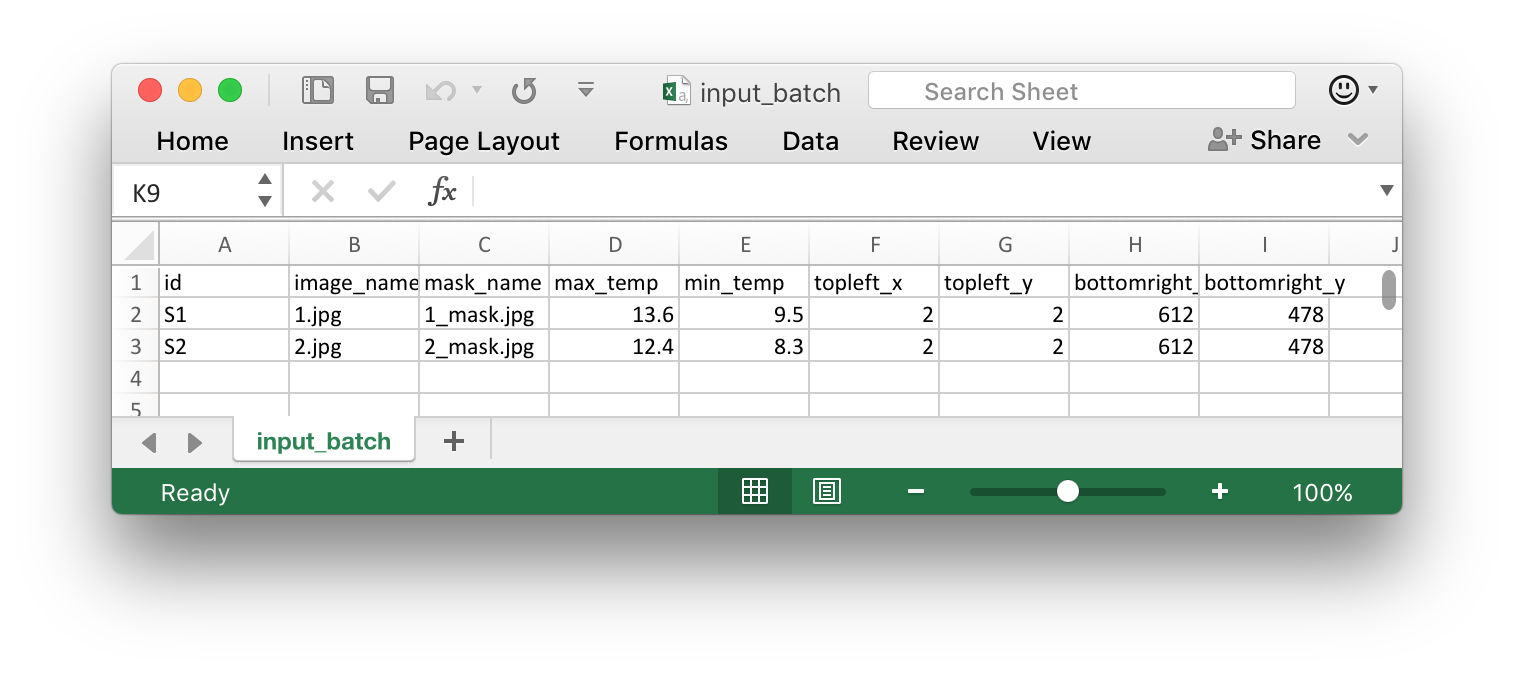
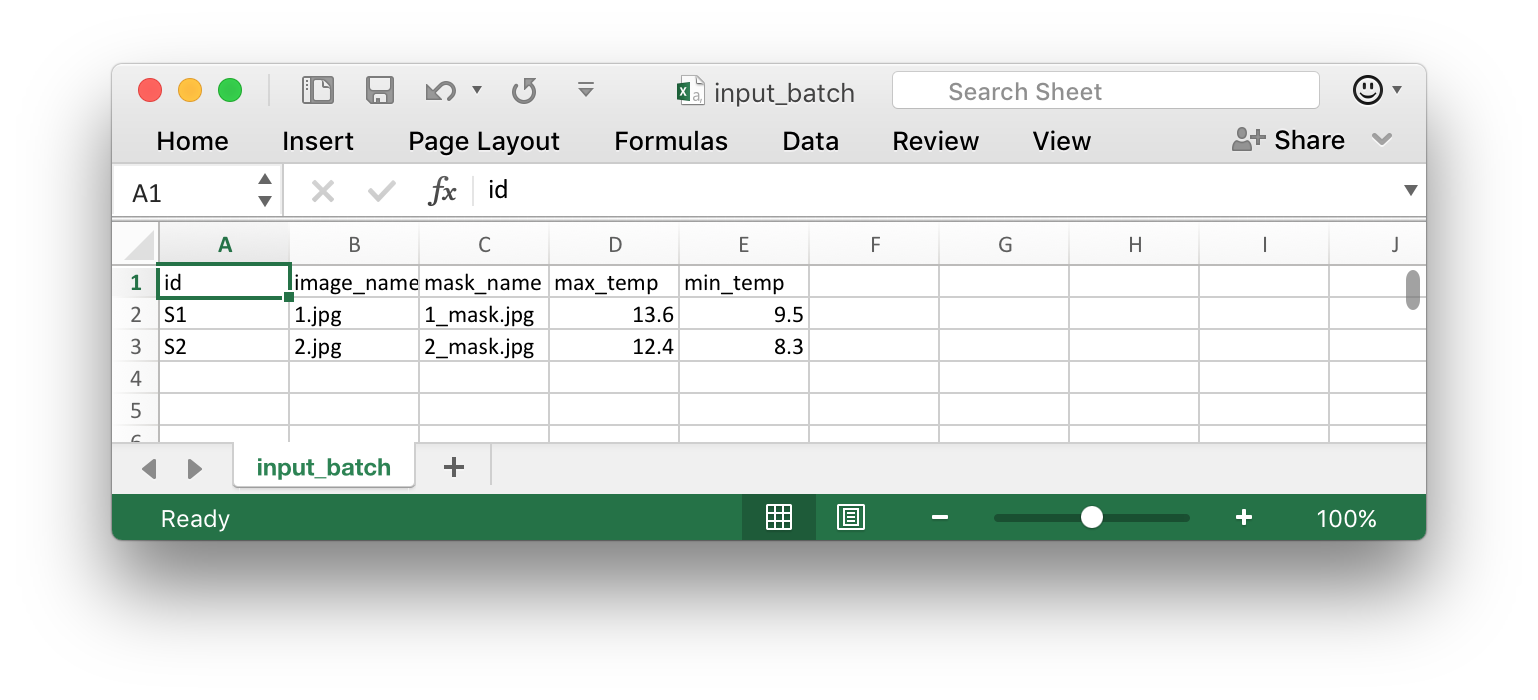
update docs to match

diff --git a/README.md b/README.md
@@ -13,7 +13,6 @@ Tested on Mac (10.10 and higher) and Linux (Ubuntu)
 Recommended but not required:
 
 - ImageJ for making image masks
-- R/RStudio for further analysis
 
 ## Usage
 
@@ -30,5 +29,18 @@ Recommended but not required:
 - Repeat for each image in dataset to be processed. (The pipeline and further statistics will likely take some time to process, so you might want to make a minimal working dataset to test your full analysis pipeline on)
 - Encode sample name, image filename, min/max temperature, and mask filename in a table (see template)
 ![](img/table_sample.png)
-"topleft_x" and the other three columns following denote initial cropping; if your subjects are strictly within a subset of the image, you might want to use this to speed up the image processing.
-- Run the batch 
+- Ensure that all the images and `input_batch.csv` are in the same folder.
+
+### Processing images
+- Run batch.py on the Terminal with `python batch.py <folder path>`. On Mac, you can insert the folder path by dragging the folder on to the Terminal window.
+- You should get some messages like this:
+
+```
+Initializing ... 
+Starting image 1............done!
+Starting image 2............done!
+Saving csv ...
+Completed!
+```
+
+- Look in the folder for an `output.csv`. This file can now be further processed by your statistical package.
